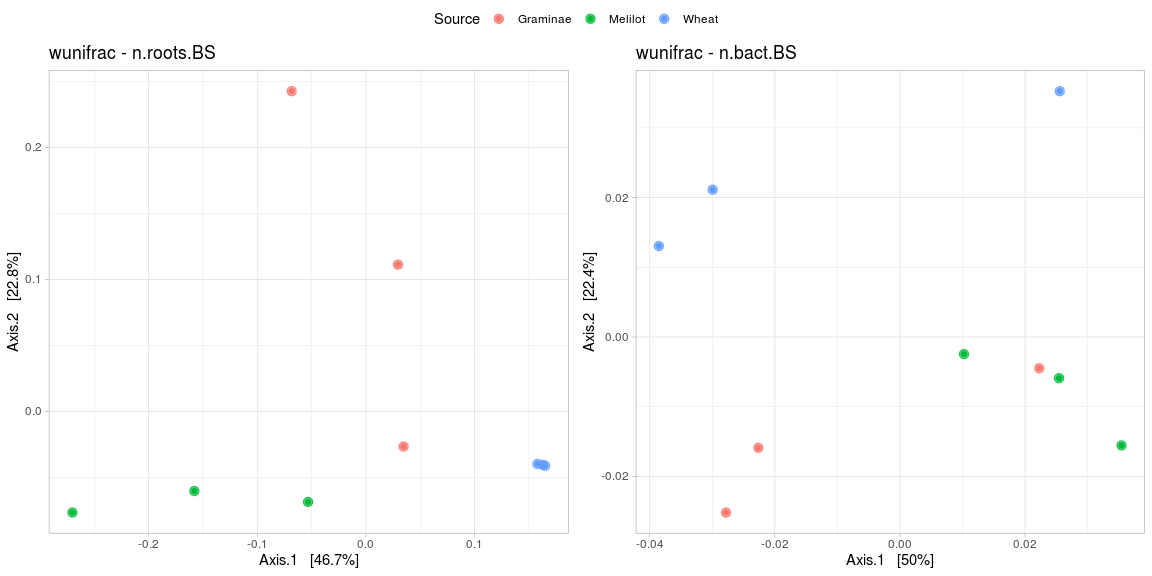
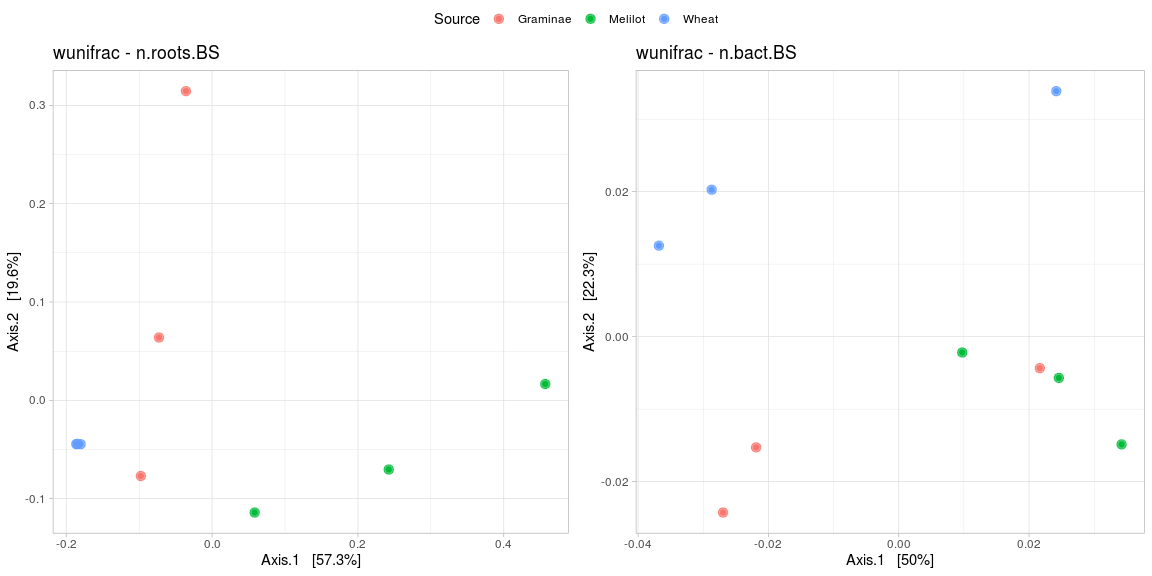
Rerooted trees

diff --git a/diversity_analysis.md b/diversity_analysis.md
@@ -17,6 +17,8 @@ library(dplyr)
 library(ggpubr)
 library(picante)
 library(reshape2)
+library(magrittr)
+library(data.table)
 library(tidyr)
 library(psych)
 library(DESeq2)
@@ -36,6 +38,9 @@ bact.BS <- subset_samples(bact.BS, Spot %in% c('1', '2', '3'))
 
 n.roots.BS <- rarefy_collapse(roots.BS)
 n.bact.BS <- rarefy_collapse(bact.BS)
+
+n.roots.BS@phy_tree <- ape::root(n.roots.BS@phy_tree, outgroup=pick_new_outgroup(n.roots.BS@phy_tree), resolve.root=TRUE)
+n.bact.BS@phy_tree <- ape::root(n.bact.BS@phy_tree, outgroup=pick_new_outgroup(n.bact.BS@phy_tree), resolve.root=TRUE)
 ```
 
 
@@ -48,6 +53,9 @@ bact.PS <- subset_samples(bact.PS, Spot %in% c('1', '2', '3'))
 
 n.roots.PS <- rarefy_collapse(roots.PS)
 n.bact.PS <- rarefy_collapse(bact.PS)
+
+n.roots.PS@phy_tree <- ape::root(n.roots.PS@phy_tree, outgroup=pick_new_outgroup(n.roots.PS@phy_tree), resolve.root=TRUE)
+n.bact.PS@phy_tree <- ape::root(n.bact.PS@phy_tree, outgroup=pick_new_outgroup(n.bact.PS@phy_tree), resolve.root=TRUE)
 ```
 
 # Представленность таксонов
@@ -288,13 +296,13 @@ merge(d1[1] %>% as.data.frame(), d2[1] %>% as.data.frame,
 
 ```
 ##    Cluster Dunn:Bact Dunn:Roots Median_Dist:Bact Median_Dist:Roots
-## 1 Graminae     0.422      0.605            0.049             0.501
-## 2  Melilot     0.422      0.605            0.034             0.206
-## 3    Wheat     0.422      0.605            0.055             0.096
+## 1 Graminae     0.412       0.63            0.053             0.381
+## 2  Melilot     0.412       0.63            0.037             0.283
+## 3    Wheat     0.412       0.63            0.061             0.016
 ##   Min_separation:Bact Min_separation:Roots
-## 1               0.026                0.358
-## 2               0.026                0.358
-## 3               0.041                0.538
+## 1               0.028                0.295
+## 2               0.028                0.304
+## 3               0.045                0.295
 ```
 
 ```r
@@ -305,13 +313,13 @@ merge(d1[2] %>% as.data.frame(), d2[2] %>% as.data.frame,
 
 ```
 ##   Cluster_1 Cluster_2 Clusters_Separation:Bact Clusters_Separation:Roots
-## 1  Graminae   Melilot               0.02619387                 0.3581302
-## 2  Graminae     Wheat               0.04128057                 0.5592192
-## 3   Melilot     Wheat               0.04252493                 0.5375461
+## 1  Graminae   Melilot               0.02826693                 0.3036948
+## 2  Graminae     Wheat               0.04510017                 0.2945624
+## 3   Melilot     Wheat               0.04608170                 0.3077156
 ##   Distance_Between:Bact Distance_Between:Roots
-## 1            0.04567953              0.4635901
-## 2            0.05189913              0.6289813
-## 3            0.05700721              0.6301929
+## 1            0.05008256              0.4658108
+## 2            0.05708553              0.3456730
+## 3            0.06235633              0.4696738
 ```
 
 ### Подзол
@@ -338,13 +346,13 @@ merge(d1[1] %>% as.data.frame(), d2[1] %>% as.data.frame,
 
 ```
 ##    Cluster Dunn:Bact Dunn:Roots Median_Dist:Bact Median_Dist:Roots
-## 1 Bedstraw     0.805      0.709            0.027             0.308
-## 2 Graminae     0.805      0.709            0.025             0.476
-## 3      Rye     0.805      0.709            0.027             0.197
+## 1 Bedstraw     0.814       0.32            0.020             0.219
+## 2 Graminae     0.814       0.32            0.019             0.092
+## 3      Rye     0.814       0.32            0.021             0.012
 ##   Min_separation:Bact Min_separation:Roots
-## 1               0.022                0.390
-## 2               0.022                0.390
-## 3               0.035                0.867
+## 1               0.017                0.188
+## 2               0.017                0.079
+## 3               0.027                0.079
 ```
 
 ```r
@@ -355,13 +363,13 @@ merge(d1[2] %>% as.data.frame(), d2[2] %>% as.data.frame,
 
 ```
 ##   Cluster_1 Cluster_2 Clusters_Separation:Bact Clusters_Separation:Roots
-## 1  Bedstraw  Graminae               0.02241464                 0.3896401
-## 2  Bedstraw       Rye               0.03694616                 0.9305281
-## 3  Graminae       Rye               0.03462622                 0.8671479
+## 1  Bedstraw  Graminae               0.01737153                0.18841349
+## 2  Bedstraw       Rye               0.02841299                0.25096920
+## 3  Graminae       Rye               0.02655707                0.07891098
 ##   Distance_Between:Bact Distance_Between:Roots
-## 1            0.02616957              0.5903996
-## 2            0.04757406              0.9735252
-## 3            0.04204957              0.9443660
+## 1            0.02003923              0.2489771
+## 2            0.03658195              0.3127612
+## 3            0.03236464              0.1369178
 ```
 
 
@@ -420,8 +428,8 @@ data.frame(ps.1 = c('n.roots.BS', 'n.roots.PS'),
 ## # Rowwise: 
 ##   ps.1       ps.2      method   Mnt_stat Mnt_signif
 ##   <fct>      <fct>     <fct>       <dbl>      <dbl>
-## 1 n.roots.BS n.bact.BS wunifrac    0.336      0.07 
-## 2 n.roots.PS n.bact.PS wunifrac    0.829      0.001
+## 1 n.roots.BS n.bact.BS wunifrac    0.224      0.096
+## 2 n.roots.PS n.bact.PS wunifrac    0.31       0.063
 ## 3 n.roots.BS n.bact.BS bray        0.814      0.003
 ## 4 n.roots.PS n.bact.PS bray        0.878      0.001
 ```
